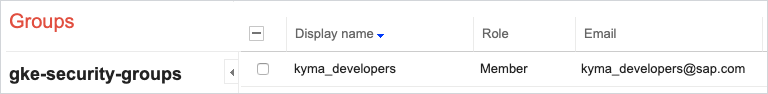
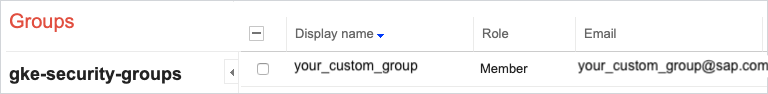
restructurization

Changed region(s): [[0.75, 0.6383, 1.0, 0.8085], [0.375, 0.6596, 0.5625, 0.8085]]

diff --git a/prow/workload-cluster/README.md b/prow/workload-cluster/README.md
@@ -25,24 +25,3 @@ You can define two kinds of Secrets:
 The `secretspopulator` function looks for the `{prefix}.encrypted` object in the bucket and creates a Kubernetes Secret with a `{prefix}`.
 For service accounts, the Secret key is `service-account.json`. For generic Secrets, you must provide a key.
 For details on the file syntax, see the `RequiredSecretsData` type in [`secretspopulator`](../../development/tools/cmd/secretspopulator/main.go).
-
-## Configure a cluster to use Google Groups
-
-Previously, you could only grant roles to Google Cloud user accounts or Cloud IAM service accounts. Google Groups for GKE (Beta) now allows you to grant roles to the members of a G Suite Google Group. With this mechanism, the users and groups themselves are maintained by your G Suite administrators, completely outside of Kubernetes or Cloud Console.
-
-Google Groups give you the possibility to gather Kyma Developers accounts and manage GCP Project permissions based on the group name. Additionally, you can grant Kubernetes Roles, ClusterRoles, RoleBindings, and ClusterRoleBindings to the specific Google Group on your cluster.
-
-For example, all members of the `kyma_developers@sap.com` group receive the **cluster-admin** ClusterRole on the Kyma release cluster. The process used to look as follows:
-
-1. System administrators created `kyma_developers@sap.com` and added it as a member of `gke-security-groups@sap.com`.
-  ![dashboards](/docs/prow/assets/GGroups.png)
-
-2. They built the release cluster with the [**--security-group="gke-security-groups@sap.com**](https://github.com/kyma-project/test-infra/blob/7b84900e56679fccfbc9e6839a85ade1dabe72bd/prow/scripts/cluster-integration/helpers/provision-gke-cluster.sh#L60) parameter. 
-
-3. They created ClusterRoleBindings for the `kyma_developers@sap.com` custom group:
-
-  ```
-  kubectl create clusterrolebinding kyma-developers-group-binding --clusterrole="cluster-admin" --group="kyma_developers@sap.com"
-  ```
-
-If you want to leverage this solution, ask the [Neighbors](https://github.com/orgs/kyma-project/teams/prow/members?utf8=%E2%9C%93&query=role%3Amaintainer) team to create a new G Suite Google Group in the `sap.com` domain. The next step is to add this group as a member of `gke-security-groups@{yourdomain.com}`.

diff --git a/docs/prow/README.md b/docs/prow/README.md
@@ -20,6 +20,7 @@ Find out more about:
 - [Prow architecture](./prow-architecture.md) and its setup in the Kyma project.
 - [Prow jobs](./prow-jobs.md) for details on Prow jobs.
 - [Prow jobs on TestGrid](./prow-k8s-testgrid.md) for details on how to add jobs to the TestGrid dashboard.
+- [Prow test clusters](./test-clusters.md)
 - [Obligatory security measures](./obligatory-security-measures.md) to take regularly for the Prow production cluster and when someone leaves the Kyma project.
 - [Presets](./presets.md) you can use to define Prow jobs.
 - [Authorization](./authorization.md) concepts employed in Prow.
